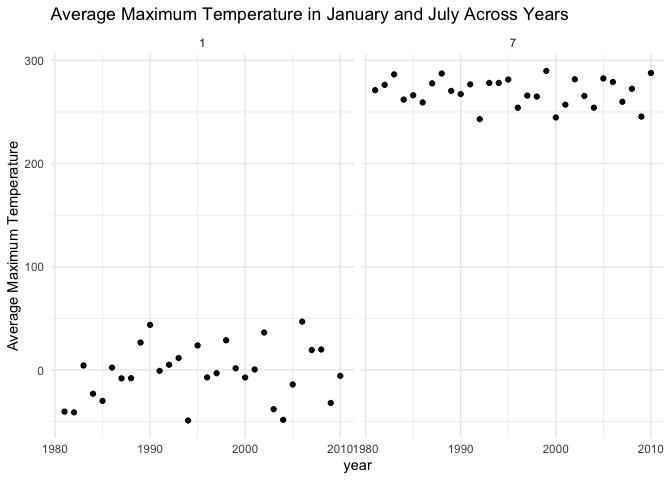
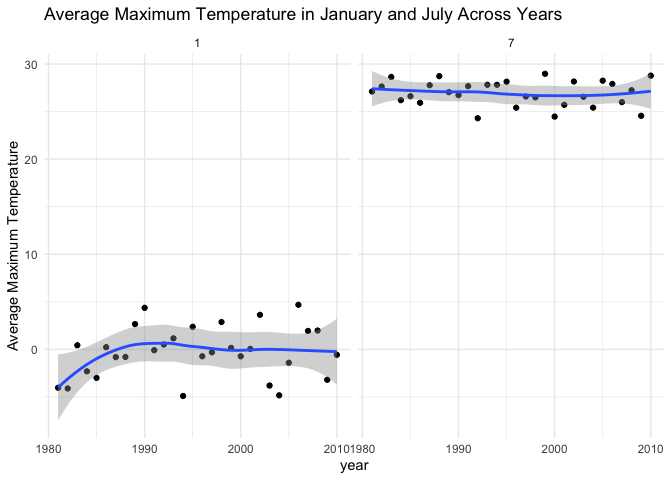
Finishing problem 1

diff --git a/p8105_hw3_eej2124.md b/p8105_hw3_eej2124.md
@@ -6,6 +6,7 @@ Emma
 ``` r
 library(tidyverse)
 library(patchwork)
+library(ggridges)
 ```
 
 # Problem 1
@@ -39,13 +40,43 @@ noaa_df =
     snow = as.numeric(snow),
     snwd = as.numeric(snwd), 
     tmax = as.numeric(tmax),
-    tmin = as.numeric(tmin)
+    tmin = as.numeric(tmin), 
+    tmax = tmax / 10, 
+    tmin = tmin / 10, 
+    prcp = prcp / 10
     ) 
 ```
 
 # Should I drop na?
 
 ## Most commonly observed snowfall
+
+``` r
+noaa_df |> 
+  group_by(snow) |> 
+  summarise(
+    n_snow = n()
+  ) |> 
+  arrange(desc(n_snow)) |> 
+  head(10) |> 
+  knitr::kable(digits = 2)
+```
+
+| snow |  n_snow |
+|-----:|--------:|
+|    0 | 2008508 |
+|   NA |  381221 |
+|   25 |   31022 |
+|   13 |   23095 |
+|   51 |   18274 |
+|   76 |   10173 |
+|    8 |    9962 |
+|    5 |    9748 |
+|   38 |    9197 |
+|    3 |    8790 |
+
+The most commonly observed value of snow is 0mm. This makes sense, as
+snow does not fall most of the time.
 
 ## Average tmax across years in January and July
 
@@ -58,6 +89,7 @@ noaa_df |>
   ) |> 
   ggplot(aes(x = year, y = avg_tmax)) +
   geom_point() + 
+  geom_smooth() +
   facet_grid(.~ month) +
   theme_minimal()  +
    labs(
@@ -67,6 +99,7 @@ noaa_df |>
 ```
 
     ## `summarise()` has regrouped the output.
+    ## `geom_smooth()` using method = 'loess' and formula = 'y ~ x'
     ## ℹ Summaries were computed grouped by year and month.
     ## ℹ Output is grouped by year.
     ## ℹ Use `summarise(.groups = "drop_last")` to silence this message.
@@ -75,15 +108,45 @@ noaa_df |>
 
 ![](p8105_hw3_eej2124_files/figure-gfm/unnamed-chunk-5-1.png)<!-- -->
 This plot shows a clear distinction between the average maximum
-temperatures in January compared to July across years.
+temperatures in January compared to July across years. July temperatures
+seem to have remained relatively steady between 1980 and 2010, but
+January temperatures show a sharp increase in the 1980s before
+plateauing.
 
-# WHY IS MAX TEMPS SO HIGH IN JULY
+## Two panel plot
 
-## Plot 2: Tmax vs. Tmin
+``` r
+tmax_v_tmin_plot = 
+  noaa_df |>  
+  ggplot(aes(x = tmin, y = tmax)) + 
+  geom_hex() +
+  labs(
+    title = "Minimum temp vs. maximum temp across all stations",
+    x = "Minimum temperature (C)",
+    y = "Maximum temperature (C)"
+  )
 
-# HOW?
+snow_plot = 
+  noaa_df |> 
+  filter(snow > 0, snow < 100) |> 
+  mutate(
+    year = factor(year)
+    ) |> 
+  ggplot(aes(x = snow, y = year)) + 
+  geom_density_ridges() +
+  labs(
+    title = "Snowfall distributions across years"
+  )
 
-## Plot 3: Snowfall distribution
+tmax_v_tmin_plot / snow_plot
+```
+
+    ## Warning: Removed 1136276 rows containing non-finite outside the scale range
+    ## (`stat_binhex()`).
+
+    ## Picking joint bandwidth of 3.76
+
+![](p8105_hw3_eej2124_files/figure-gfm/unnamed-chunk-6-1.png)<!-- -->
 
 # Problem 2
 
@@ -202,7 +265,7 @@ demo_accel_df |>
   theme_minimal()
 ```
 
-![](p8105_hw3_eej2124_files/figure-gfm/unnamed-chunk-12-1.png)<!-- -->
+![](p8105_hw3_eej2124_files/figure-gfm/unnamed-chunk-11-1.png)<!-- -->
 Both men and women who completed more than a high school education tend
 to be younger than the compare groups, and both men and women who who
 completed less than a high school education tend to be older than the
@@ -226,7 +289,7 @@ demo_accel_df |>
 
     ## `geom_smooth()` using method = 'gam' and formula = 'y ~ s(x, bs = "cs")'
 
-![](p8105_hw3_eej2124_files/figure-gfm/unnamed-chunk-13-1.png)<!-- -->
+![](p8105_hw3_eej2124_files/figure-gfm/unnamed-chunk-12-1.png)<!-- -->
 This plot shows general downward trends in activity levels across
 education levels and sexes. However, there are large variations in
 activity levels within each of these groups. Participants with more than
@@ -417,7 +480,7 @@ citi_bikes_df |>
     ## ℹ Use `summarise(.by = c(weekdays, month, year))` for per-operation grouping
     ##   (`?dplyr::dplyr_by`) instead.
 
-![](p8105_hw3_eej2124_files/figure-gfm/unnamed-chunk-22-1.png)<!-- -->
+![](p8105_hw3_eej2124_files/figure-gfm/unnamed-chunk-21-1.png)<!-- -->
 Interestingly, the median ride duration decreased in both January and
 July from 2020 to 2024. This may be a result of increasing prices for
 longer Citi Bike rides. In July, ride duration tends to be longer, most
@@ -438,5 +501,5 @@ citi_bikes_df |>
   theme_minimal()
 ```
 
-![](p8105_hw3_eej2124_files/figure-gfm/unnamed-chunk-23-1.png)<!-- -->
+![](p8105_hw3_eej2124_files/figure-gfm/unnamed-chunk-22-1.png)<!-- -->
 \# This is bad
